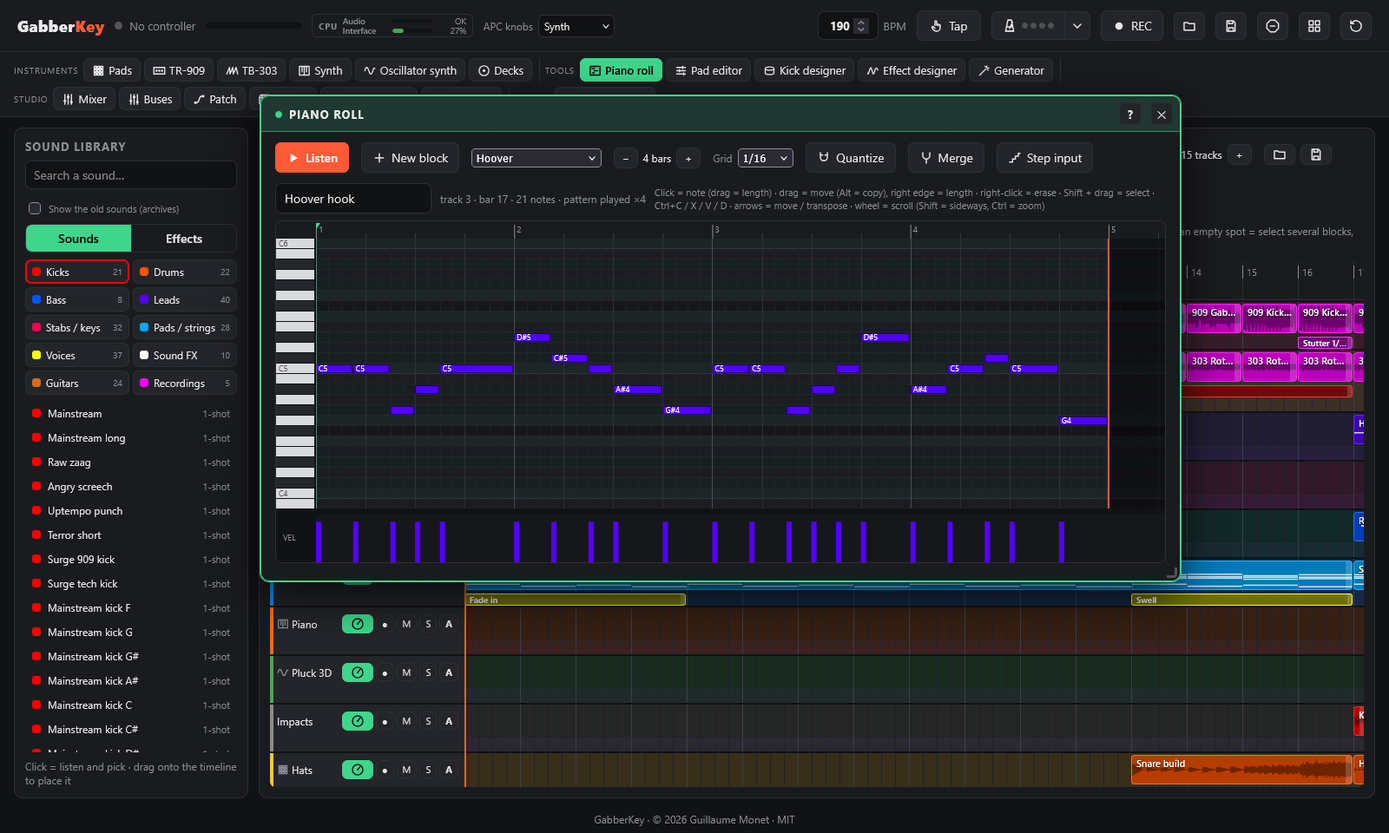
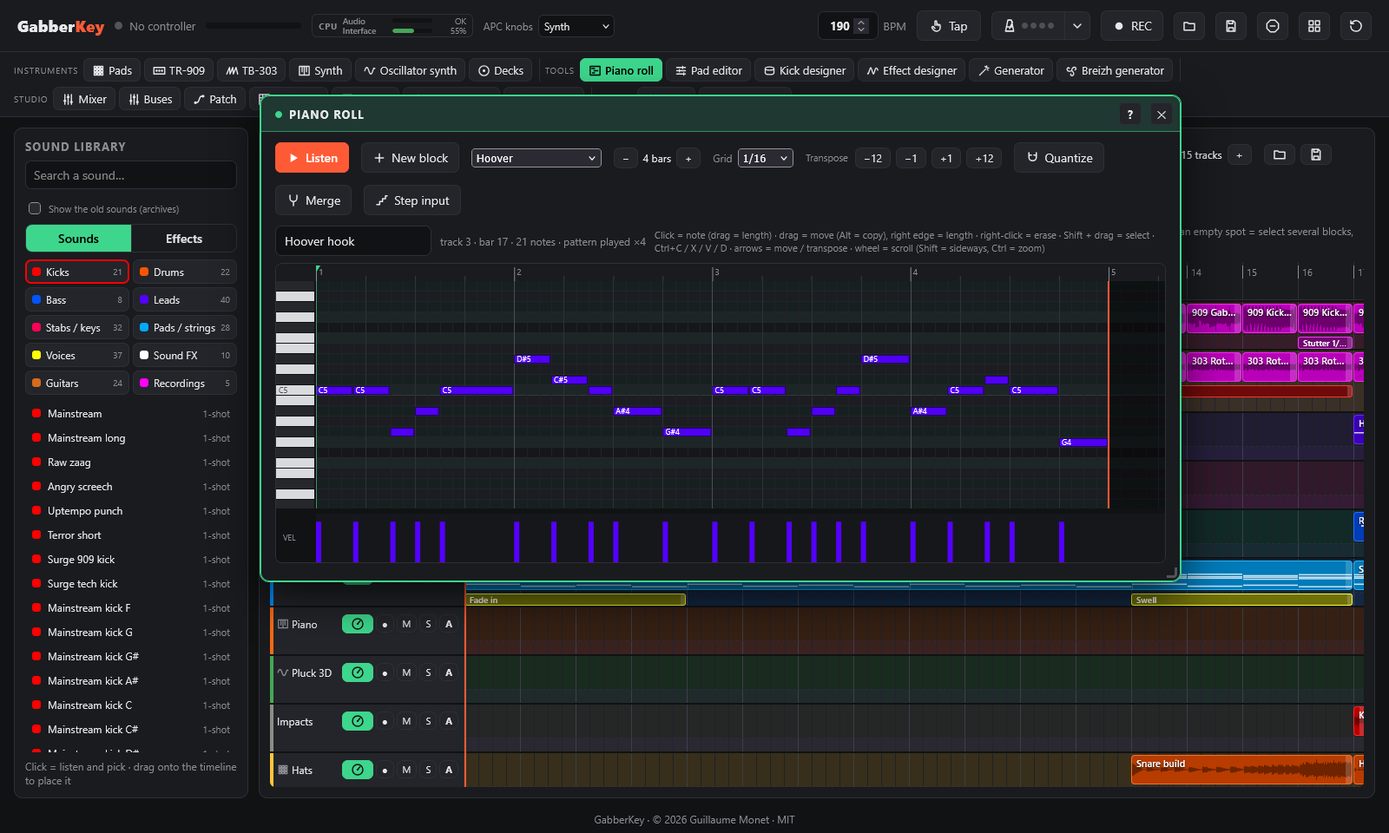
Piano roll: Transpose buttons (-12, -1, +1, +12) move the selected notes, or all the notes of the block when none is selected (was only reachable with the arrow keys). Kick melodies follow the kick designer: every setting changed in the designer is carried to the kick-melody blocks and their kicks a

diff --git a/index.html b/index.html
@@ -5,7 +5,7 @@
   <meta name="viewport" content="width=device-width, initial-scale=1">
   <meta name="author" content="Guillaume Monet">
   <title>GabberKey</title>
-  <link rel="stylesheet" href="css/style.css?v=102">
+  <link rel="stylesheet" href="css/style.css?v=103">
 </head>
 <body>
   <div id="start" class="overlay">
@@ -363,6 +363,7 @@
         <select id="roll-preset" data-i18n-title="roll.preset.title"></select>
         <span class="tl-bars" data-i18n-title="roll.len.title"><button id="roll-shorter">−</button><span id="roll-len"></span><button id="roll-longer">+</button></span>
         <label class="roll-field"><span data-i18n="roll.grid"></span><select id="roll-grid"></select></label>
+        <span class="tl-bars roll-transpose" data-i18n-title="roll.transpose.title"><span class="roll-tr-label" data-i18n="roll.transpose"></span><button data-tr="-12">−12</button><button data-tr="-1">−1</button><button data-tr="1">+1</button><button data-tr="12">+12</button></span>
         <button id="roll-quant" data-icon="magnet" data-i18n="roll.quant" data-i18n-title="roll.quant.title"></button>
         <button id="roll-merge" data-icon="merge" data-i18n="roll.merge" data-i18n-title="roll.merge.title"></button>
         <button id="roll-step" data-icon="steps" data-i18n="roll.step" data-i18n-title="roll.step.title"></button>
@@ -408,106 +409,106 @@
   <script type="importmap">
   {
     "imports": {
-      "./js/app/acid-ui.js": "./js/app/acid-ui.js?v=102",
-      "./js/app/actions.js": "./js/app/actions.js?v=102",
-      "./js/app/controller.js": "./js/app/controller.js?v=102",
-      "./js/app/core.js": "./js/app/core.js?v=102",
-      "./js/app/audio-input.js": "./js/app/audio-input.js?v=102",
-      "./js/app/automation-ui.js": "./js/app/automation-ui.js?v=102",
-      "./js/app/breizh-ui.js": "./js/app/breizh-ui.js?v=102",
-      "./js/app/buses-ui.js": "./js/app/buses-ui.js?v=102",
-      "./js/app/clip-menu.js": "./js/app/clip-menu.js?v=102",
-      "./js/app/curve-ui.js": "./js/app/curve-ui.js?v=102",
-      "./js/app/decks-ui.js": "./js/app/decks-ui.js?v=102",
-      "./js/app/demo.js": "./js/app/demo.js?v=102",
-      "./js/app/export.js": "./js/app/export.js?v=102",
-      "./js/app/files.js": "./js/app/files.js?v=102",
-      "./js/app/freeze.js": "./js/app/freeze.js?v=102",
-      "./js/app/gen.js": "./js/app/gen.js?v=102",
-      "./js/app/inserts-ui.js": "./js/app/inserts-ui.js?v=102",
-      "./js/app/kick-ui.js": "./js/app/kick-ui.js?v=102",
-      "./js/app/knobs.js": "./js/app/knobs.js?v=102",
-      "./js/app/launcher.js": "./js/app/launcher.js?v=102",
-      "./js/app/library-ui.js": "./js/app/library-ui.js?v=102",
-      "./js/app/metro-ui.js": "./js/app/metro-ui.js?v=102",
-      "./js/app/markers.js": "./js/app/markers.js?v=102",
-      "./js/app/master-ui.js": "./js/app/master-ui.js?v=102",
-      "./js/app/midi-files.js": "./js/app/midi-files.js?v=102",
-      "./js/app/midi-ui.js": "./js/app/midi-ui.js?v=102",
-      "./js/app/misc.js": "./js/app/misc.js?v=102",
-      "./js/app/mixer-ui.js": "./js/app/mixer-ui.js?v=102",
-      "./js/app/osc-ui.js": "./js/app/osc-ui.js?v=102",
-      "./js/app/pads.js": "./js/app/pads.js?v=102",
-      "./js/app/patch-ui.js": "./js/app/patch-ui.js?v=102",
-      "./js/app/perf-fx.js": "./js/app/perf-fx.js?v=102",
-      "./js/app/play.js": "./js/app/play.js?v=102",
-      "./js/app/piano.js": "./js/app/piano.js?v=102",
-      "./js/app/plugins.js": "./js/app/plugins.js?v=102",
-      "./js/app/presets-bar.js": "./js/app/presets-bar.js?v=102",
-      "./js/app/roll-ui.js": "./js/app/roll-ui.js?v=102",
-      "./js/app/save.js": "./js/app/save.js?v=102",
-      "./js/app/scenes.js": "./js/app/scenes.js?v=102",
-      "./js/app/sounds.js": "./js/app/sounds.js?v=102",
-      "./js/app/sidechain-ui.js": "./js/app/sidechain-ui.js?v=102",
-      "./js/app/synth-ui.js": "./js/app/synth-ui.js?v=102",
-      "./js/app/tempo.js": "./js/app/tempo.js?v=102",
-      "./js/app/tl-listen.js": "./js/app/tl-listen.js?v=102",
-      "./js/app/tl-record.js": "./js/app/tl-record.js?v=102",
-      "./js/app/tl-select.js": "./js/app/tl-select.js?v=102",
-      "./js/app/tl.js": "./js/app/tl.js?v=102",
-      "./js/app/tr909-ui.js": "./js/app/tr909-ui.js?v=102",
-      "./js/app/trackfx-ui.js": "./js/app/trackfx-ui.js?v=102",
-      "./js/app/undo.js": "./js/app/undo.js?v=102",
-      "./js/app/warp.js": "./js/app/warp.js?v=102",
-      "./js/app/viz-ui.js": "./js/app/viz-ui.js?v=102",
-      "./js/acid.js": "./js/acid.js?v=102",
-      "./js/apc.js": "./js/apc.js?v=102",
-      "./js/audio.js": "./js/audio.js?v=102",
-      "./js/decks.js": "./js/decks.js?v=102",
-      "./js/dynamics.js": "./js/dynamics.js?v=102",
-      "./js/chords.js": "./js/chords.js?v=102",
-      "./js/help.js": "./js/help.js?v=102",
-      "./js/history.js": "./js/history.js?v=102",
-      "./js/i18n.js": "./js/i18n.js?v=102",
-      "./js/kickdesign.js": "./js/kickdesign.js?v=102",
-      "./js/kicksynth.js": "./js/kicksynth.js?v=102",
-      "./js/kit.js": "./js/kit.js?v=102",
-      "./js/kits.js": "./js/kits.js?v=102",
-      "./js/metronome.js": "./js/metronome.js?v=102",
-      "./js/cpumeter.js": "./js/cpumeter.js?v=102",
-      "./js/curves.js": "./js/curves.js?v=102",
-      "./js/library.js": "./js/library.js?v=102",
-      "./js/lufs.js": "./js/lufs.js?v=102",
-      "./js/breizh.js": "./js/breizh.js?v=102",
-      "./js/melody.js": "./js/melody.js?v=102",
-      "./js/midi.js": "./js/midi.js?v=102",
-      "./js/midiclock.js": "./js/midiclock.js?v=102",
-      "./js/smf.js": "./js/smf.js?v=102",
-      "./js/main.js": "./js/main.js?v=102",
-      "./js/mixer.js": "./js/mixer.js?v=102",
-      "./js/notes.js": "./js/notes.js?v=102",
-      "./js/osc.js": "./js/osc.js?v=102",
-      "./js/params.js": "./js/params.js?v=102",
-      "./js/patch.js": "./js/patch.js?v=102",
-      "./js/performer.js": "./js/performer.js?v=102",
-      "./js/pianoroll.js": "./js/pianoroll.js?v=102",
-      "./js/presets.js": "./js/presets.js?v=102",
-      "./js/project.js": "./js/project.js?v=102",
-      "./js/sidechain.js": "./js/sidechain.js?v=102",
-      "./js/recorder.js": "./js/recorder.js?v=102",
-      "./js/timeline.js": "./js/timeline.js?v=102",
-      "./js/storage.js": "./js/storage.js?v=102",
-      "./js/stretch.js": "./js/stretch.js?v=102",
-      "./js/suggest.js": "./js/suggest.js?v=102",
-      "./js/tr909.js": "./js/tr909.js?v=102",
-      "./js/trackfx.js": "./js/trackfx.js?v=102",
-      "./js/visualizer.js": "./js/visualizer.js?v=102",
-      "./js/viz3d.js": "./js/viz3d.js?v=102",
-      "./js/windows.js": "./js/windows.js?v=102",
-      "./js/zip.js": "./js/zip.js?v=102"
+      "./js/app/acid-ui.js": "./js/app/acid-ui.js?v=103",
+      "./js/app/actions.js": "./js/app/actions.js?v=103",
+      "./js/app/controller.js": "./js/app/controller.js?v=103",
+      "./js/app/core.js": "./js/app/core.js?v=103",
+      "./js/app/audio-input.js": "./js/app/audio-input.js?v=103",
+      "./js/app/automation-ui.js": "./js/app/automation-ui.js?v=103",
+      "./js/app/breizh-ui.js": "./js/app/breizh-ui.js?v=103",
+      "./js/app/buses-ui.js": "./js/app/buses-ui.js?v=103",
+      "./js/app/clip-menu.js": "./js/app/clip-menu.js?v=103",
+      "./js/app/curve-ui.js": "./js/app/curve-ui.js?v=103",
+      "./js/app/decks-ui.js": "./js/app/decks-ui.js?v=103",
+      "./js/app/demo.js": "./js/app/demo.js?v=103",
+      "./js/app/export.js": "./js/app/export.js?v=103",
+      "./js/app/files.js": "./js/app/files.js?v=103",
+      "./js/app/freeze.js": "./js/app/freeze.js?v=103",
+      "./js/app/gen.js": "./js/app/gen.js?v=103",
+      "./js/app/inserts-ui.js": "./js/app/inserts-ui.js?v=103",
+      "./js/app/kick-ui.js": "./js/app/kick-ui.js?v=103",
+      "./js/app/knobs.js": "./js/app/knobs.js?v=103",
+      "./js/app/launcher.js": "./js/app/launcher.js?v=103",
+      "./js/app/library-ui.js": "./js/app/library-ui.js?v=103",
+      "./js/app/metro-ui.js": "./js/app/metro-ui.js?v=103",
+      "./js/app/markers.js": "./js/app/markers.js?v=103",
+      "./js/app/master-ui.js": "./js/app/master-ui.js?v=103",
+      "./js/app/midi-files.js": "./js/app/midi-files.js?v=103",
+      "./js/app/midi-ui.js": "./js/app/midi-ui.js?v=103",
+      "./js/app/misc.js": "./js/app/misc.js?v=103",
+      "./js/app/mixer-ui.js": "./js/app/mixer-ui.js?v=103",
+      "./js/app/osc-ui.js": "./js/app/osc-ui.js?v=103",
+      "./js/app/pads.js": "./js/app/pads.js?v=103",
+      "./js/app/patch-ui.js": "./js/app/patch-ui.js?v=103",
+      "./js/app/perf-fx.js": "./js/app/perf-fx.js?v=103",
+      "./js/app/play.js": "./js/app/play.js?v=103",
+      "./js/app/piano.js": "./js/app/piano.js?v=103",
+      "./js/app/plugins.js": "./js/app/plugins.js?v=103",
+      "./js/app/presets-bar.js": "./js/app/presets-bar.js?v=103",
+      "./js/app/roll-ui.js": "./js/app/roll-ui.js?v=103",
+      "./js/app/save.js": "./js/app/save.js?v=103",
+      "./js/app/scenes.js": "./js/app/scenes.js?v=103",
+      "./js/app/sounds.js": "./js/app/sounds.js?v=103",
+      "./js/app/sidechain-ui.js": "./js/app/sidechain-ui.js?v=103",
+      "./js/app/synth-ui.js": "./js/app/synth-ui.js?v=103",
+      "./js/app/tempo.js": "./js/app/tempo.js?v=103",
+      "./js/app/tl-listen.js": "./js/app/tl-listen.js?v=103",
+      "./js/app/tl-record.js": "./js/app/tl-record.js?v=103",
+      "./js/app/tl-select.js": "./js/app/tl-select.js?v=103",
+      "./js/app/tl.js": "./js/app/tl.js?v=103",
+      "./js/app/tr909-ui.js": "./js/app/tr909-ui.js?v=103",
+      "./js/app/trackfx-ui.js": "./js/app/trackfx-ui.js?v=103",
+      "./js/app/undo.js": "./js/app/undo.js?v=103",
+      "./js/app/warp.js": "./js/app/warp.js?v=103",
+      "./js/app/viz-ui.js": "./js/app/viz-ui.js?v=103",
+      "./js/acid.js": "./js/acid.js?v=103",
+      "./js/apc.js": "./js/apc.js?v=103",
+      "./js/audio.js": "./js/audio.js?v=103",
+      "./js/decks.js": "./js/decks.js?v=103",
+      "./js/dynamics.js": "./js/dynamics.js?v=103",
+      "./js/chords.js": "./js/chords.js?v=103",
+      "./js/help.js": "./js/help.js?v=103",
+      "./js/history.js": "./js/history.js?v=103",
+      "./js/i18n.js": "./js/i18n.js?v=103",
+      "./js/kickdesign.js": "./js/kickdesign.js?v=103",
+      "./js/kicksynth.js": "./js/kicksynth.js?v=103",
+      "./js/kit.js": "./js/kit.js?v=103",
+      "./js/kits.js": "./js/kits.js?v=103",
+      "./js/metronome.js": "./js/metronome.js?v=103",
+      "./js/cpumeter.js": "./js/cpumeter.js?v=103",
+      "./js/curves.js": "./js/curves.js?v=103",
+      "./js/library.js": "./js/library.js?v=103",
+      "./js/lufs.js": "./js/lufs.js?v=103",
+      "./js/breizh.js": "./js/breizh.js?v=103",
+      "./js/melody.js": "./js/melody.js?v=103",
+      "./js/midi.js": "./js/midi.js?v=103",
+      "./js/midiclock.js": "./js/midiclock.js?v=103",
+      "./js/smf.js": "./js/smf.js?v=103",
+      "./js/main.js": "./js/main.js?v=103",
+      "./js/mixer.js": "./js/mixer.js?v=103",
+      "./js/notes.js": "./js/notes.js?v=103",
+      "./js/osc.js": "./js/osc.js?v=103",
+      "./js/params.js": "./js/params.js?v=103",
+      "./js/patch.js": "./js/patch.js?v=103",
+      "./js/performer.js": "./js/performer.js?v=103",
+      "./js/pianoroll.js": "./js/pianoroll.js?v=103",
+      "./js/presets.js": "./js/presets.js?v=103",
+      "./js/project.js": "./js/project.js?v=103",
+      "./js/sidechain.js": "./js/sidechain.js?v=103",
+      "./js/recorder.js": "./js/recorder.js?v=103",
+      "./js/timeline.js": "./js/timeline.js?v=103",
+      "./js/storage.js": "./js/storage.js?v=103",
+      "./js/stretch.js": "./js/stretch.js?v=103",
+      "./js/suggest.js": "./js/suggest.js?v=103",
+      "./js/tr909.js": "./js/tr909.js?v=103",
+      "./js/trackfx.js": "./js/trackfx.js?v=103",
+      "./js/visualizer.js": "./js/visualizer.js?v=103",
+      "./js/viz3d.js": "./js/viz3d.js?v=103",
+      "./js/windows.js": "./js/windows.js?v=103",
+      "./js/zip.js": "./js/zip.js?v=103"
     }
   }
   </script>
-  <script type="module" src="js/main.js?v=102"></script>
+  <script type="module" src="js/main.js?v=103"></script>
 </body>
 </html>

diff --git a/js/help.js b/js/help.js
@@ -85,6 +85,7 @@ export const HELP = {
       <ul>
         <li><b>Open a block</b>: double-click a note block on the timeline (while this window is open, a click is enough), or <b>+ New block</b> (1 bar at the playhead, on the armed track). A synth recording becomes a single note block.</li>
         <li><b>Notes</b>: click an empty spot to add a note (drag to set its length), drag a note to move it (<b>Alt</b> = copy), drag its right edge to change its length, <b>right-click</b> (or right-drag) to erase. <b>Shift + drag</b> selects a group, Shift + click adds a note to the selection.</li>
+        <li><b>Transpose</b> (−12, −1, +1, +12): the selected notes, or all the notes of the block if none is selected.</li>
         <li><b>Keys</b>: Delete, Ctrl+A / C / X / V (paste at the green cursor, set by clicking the ruler), Ctrl+D (duplicate after itself), ↑ / ↓ transpose (Shift = octave), ← / → move by one grid step (Shift = one bar), Q quantize, Space = listen, Ctrl+Z = undo.</li>
         <li><b>Velocity</b>: drag in the bottom lane (only the selected notes if there is a selection).</li>
         <li><b>Grid</b> from 1/4 to 1/32 (and triplets); <b>Quantize</b> snaps the start and end of the notes. Rows of the F minor scale (the key of the banks) are tinted.</li>
@@ -327,6 +328,7 @@ export const HELP = {
       <ul>
         <li><b>Ouvrir un bloc</b> : double-clic sur un bloc de notes de la timeline (quand cette fenêtre est ouverte, un clic suffit), ou <b>+ Nouveau bloc</b> (1 mesure à la tête de lecture, sur la piste armée). Un enregistrement du synthé devient un seul bloc de notes.</li>
         <li><b>Notes</b> : clic dans le vide pour poser une note (glisser pour sa durée), glisser une note pour la déplacer (<b>Alt</b> = copie), glisser son bord droit pour sa durée, <b>clic droit</b> (ou glisser en clic droit) pour effacer. <b>Maj + glisser</b> sélectionne un groupe, Maj + clic ajoute une note à la sélection.</li>
+        <li><b>Transposer</b> (−12, −1, +1, +12) : les notes sélectionnées, ou toutes les notes du bloc si rien n'est sélectionné.</li>
         <li><b>Touches</b> : Suppr, Ctrl+A / C / X / V (collage au curseur vert, placé d'un clic sur la règle), Ctrl+D (duplique à la suite), ↑ / ↓ transposent (Maj = octave), ← / → déplacent d'une case (Maj = une mesure), Q quantifie, Espace = écouter, Ctrl+Z = annuler.</li>
         <li><b>Vélocité</b> : glisser dans la bande du bas (seulement les notes sélectionnées s'il y a une sélection).</li>
         <li><b>Grille</b> de 1/4 à 1/32 (et triolets) ; <b>Quantifier</b> cale le début et la fin des notes. Les lignes de la gamme de fa mineur (la tonalité des banques) sont teintées.</li>

diff --git a/js/app/roll-ui.js b/js/app/roll-ui.js
@@ -66,7 +66,13 @@ export function openRoll(clip, show) {
 export function buildRoll() {
   pianoRoll = new PianoRoll($('#roll-canvas'), {
     clip: () => rollFind()?.clip ?? null,
-    changed: () => { const f = rollFind(); if (f) growSong(f.clip); renderTl(); save(); },
+    changed: () => {
+      const f = rollFind();
+      if (f) growSong(f.clip);
+      if (f?.clip.kick) prepareKickClips(state.tl.tracks, engine.ctx.sampleRate);   // mélodie de kick : les kicks des nouvelles notes
+      renderTl();
+      save();
+    },
     noteOn: (n, v) => { const s = rollSound(); rollHeld.set(n, s.syn); s.syn.noteOn(n, v, undefined, `roll:${n}`, s.V); },
     noteOff: n => { (rollHeld.get(n) ?? engine).noteOff(n, false, undefined, `roll:${n}`); rollHeld.delete(n); },
     playhead: rollPlayhead,
@@ -78,6 +84,8 @@ export function buildRoll() {
   $('#roll-new').addEventListener('click', rollNew);
   $('#roll-merge').addEventListener('click', rollMerge);
   $('#roll-quant').addEventListener('click', () => pianoRoll.quantize());
+  // Transposer : les notes sélectionnées, ou toutes les notes du bloc (comme les flèches ↑ ↓, Maj = octave).
+  for (const b of document.querySelectorAll('.roll-transpose button')) b.addEventListener('click', () => pianoRoll.transpose(+b.dataset.tr));
   $('#roll-step').addEventListener('click', () => { state.roll.step = !state.roll.step; renderRollBar(); save(); });
   $('#roll-shorter').addEventListener('click', () => rollLength(-1));
   $('#roll-longer').addEventListener('click', () => rollLength(1));
@@ -123,6 +131,7 @@ export function renderRollBar() {
   const clip = f?.clip;
   $('#roll-empty').hidden = !!clip;
   for (const id of ['#roll-play', '#roll-preset', '#roll-shorter', '#roll-longer', '#roll-quant', '#roll-merge', '#roll-name']) $(id).disabled = !clip;
+  for (const b of document.querySelectorAll('.roll-transpose button')) b.disabled = !clip;
   $('#roll-play').textContent = rollPlay ? t('tr.stop') : t('roll.listen');
   $('#roll-play').dataset.icon = rollPlay ? 'stop' : 'play';
   $('#roll-play').classList.toggle('active', !!rollPlay);

diff --git a/js/i18n.js b/js/i18n.js
@@ -808,6 +808,7 @@ export const STRINGS = {
     'roll.len.title': 'Length of the pattern (the block repeats it over its whole length on the timeline)',
     'roll.grid': 'Grid',
     'roll.quant': 'Quantize',
+    'roll.transpose': 'Transpose', 'roll.transpose.title': 'Moves the selected notes, or all the notes of the block if none is selected, by a semitone or an octave (also ↑ ↓, Shift = octave)',
     'roll.quant.title': 'Snap the selected notes (or all of them) to the grid (Q)',
     'roll.merge': 'Merge',
     'roll.merge.title': 'Merge the neighbouring note blocks of the same track (same sound) into this block',
@@ -1853,6 +1854,7 @@ export const STRINGS = {
     'roll.len.title': "Longueur du motif (le bloc le répète sur toute sa longueur dans la timeline)",
     'roll.grid': 'Grille',
     'roll.quant': 'Quantifier',
+    'roll.transpose': 'Transposer', 'roll.transpose.title': 'Décale les notes sélectionnées, ou toutes les notes du bloc si rien n\'est sélectionné, d\'un demi-ton ou d\'une octave (aussi ↑ ↓, Maj = octave)',
     'roll.quant.title': "Cale les notes sélectionnées (ou toutes) sur la grille (Q)",
     'roll.merge': 'Regrouper',
     'roll.merge.title': "Regroupe dans ce bloc les blocs de notes voisins de la même piste (même son)",

diff --git a/tests/specs/instruments-kick-layers.test.js b/tests/specs/instruments-kick-layers.test.js
@@ -111,6 +111,18 @@ export default async function (t, A) {
   const bd = 60 / S.bpm;
   t.ok(rms(ch[0], 0, 4 * bd, sr) > 0.02, 'export : la mélodie de kick est rendue', rms(ch[0], 0, 4 * bd, sr));
 
+  // Le bloc suit le designer : un réglage changé lui est reporté.
+  S.kick.params.drive = 0.9;
+  A.kickChanged(false);
+  t.ok(await t.until(() => clip.kick.drive === 0.9, 2000), 'la mélodie de kick suit le designer');
+  // Transposer (piano roll) : toutes les notes du bloc, sans sélection.
+  const before = clip.seq.map(n => n.note);
+  t.$('.roll-transpose [data-tr="12"]').click();
+  t.eq(clip.seq.map(n => n.note), before.map(n => n + 12), 'Transposer +12 : toutes les notes montent d’une octave');
+  t.$('.roll-transpose [data-tr="-1"]').click();
+  t.eq(clip.seq[0].note, before[0] + 11, 'Transposer −1 : un demi-ton plus bas');
+  t.$('.roll-transpose [data-tr="-12"]').click();
+  t.$('.roll-transpose [data-tr="1"]').click();
   // Piano roll : un autre son, puis de nouveau le kick.
   const sel = t.$('#roll-preset');
   sel.value = 'epic_strings'; sel.dispatchEvent(new Event('change'));

diff --git a/js/app/kick-ui.js b/js/app/kick-ui.js
@@ -142,11 +142,23 @@ export async function kickRender() {
   return buf;
 }
 
+// Les blocs de mélodie de kick suivent le kick du designer : chaque réglage changé leur est reporté (sauf un bloc figé,
+// kickFrozen), et leurs kicks sont recalculés à l'avance.
+export function followKick() {
+  const linked = state.tl.tracks.flatMap(tr => tr.clips).filter(c => c.type === 'note' && c.kick && !c.kickFrozen);
+  if (!linked.length) return;
+  const p = JSON.stringify(state.kick.params);
+  let changed = false;
+  for (const c of linked) if (JSON.stringify(c.kick) !== p) { c.kick = { ...state.kick.params }; changed = true; }
+  if (changed) prepareKickClips(state.tl.tracks, engine.ctx.sampleRate);
+}
+
 export let kickTimer;
 export function kickChanged(play) {
   clearTimeout(kickTimer);
   kickTimer = setTimeout(async () => {
     await kickRender();
+    followKick();
     if (play && state.kick.auto) playKick(false);
   }, 40);
   renderKick();

diff --git a/css/style.css b/css/style.css
@@ -719,6 +719,8 @@ header button, header .status { white-space: nowrap; }
 .roll-info .roll-hint { flex: 1; min-width: 0; font-size: 11px; }
 .roll-view { position: relative; flex: 1; min-height: 260px; border: 1px solid var(--line); border-radius: 8px; overflow: hidden; }
 #roll-canvas { position: absolute; inset: 0; width: 100%; height: 100%; touch-action: none; }
+.roll-transpose { align-items: center; }
+.roll-tr-label { color: var(--muted); font-size: 11px; margin-right: 2px; }
 .roll-empty { position: absolute; inset: 0; display: flex; align-items: center; justify-content: center; padding: 20px; text-align: center; color: var(--muted); pointer-events: none; }
 .roll-empty[hidden] { display: none; }
 #roll-step.active, #roll-play.active { background: var(--accent-2); color: #111; }

diff --git a/docs/manuel/instruments.md b/docs/manuel/instruments.md
@@ -135,7 +135,7 @@ La note de la queue s'affiche au-dessus des potentiomètres (par exemple « Queu
 - **Accorder sur la tonalité** accorde la queue sur la tonalité du morceau : la fondamentale du premier accord du **Générateur**, au plus près de la note actuelle.
 - **Mélodie de kick** pose sur la timeline un bloc de notes joué par ce kick, un kick par temps, et l'ouvre dans le **piano roll**. Chaque note accorde la queue : changez les notes pour faire chanter le kick, comme en frenchcore ou en uptempo. S'il y a une suite d'accords dans le Générateur, la mélodie suit la fondamentale de chaque accord ; sinon elle reste sur la note de la queue.
   - Chaque kick coupe le précédent, et une note courte donne une queue courte.
-  - Le bloc garde le kick tel qu'il était quand vous l'avez posé. Pour lui donner le kick actuel du designer, choisissez **Kick du designer** dans la liste des sons du piano roll ; ce choix transforme aussi n'importe quel bloc de notes en mélodie de kick.
+  - Le bloc suit le designer : chaque réglage que vous changez dans le designer s'entend aussitôt dans la mélodie. Dans la liste des sons du piano roll, **Kick du designer** transforme aussi n'importe quel bloc de notes en mélodie de kick.
   - Les kicks de la mélodie déclenchent le sidechain.
 
 ---

diff --git a/docs/manuel/timeline.md b/docs/manuel/timeline.md
@@ -97,6 +97,7 @@ Le navigateur dispose de peu de puissance de calcul : une piste lourde (accords 
 
 - **Ouvrir un bloc** : double-clic sur un bloc de notes de la timeline (quand la fenêtre est ouverte, un clic suffit), ou **+ Nouveau bloc** (1 mesure à la tête de lecture, sur la piste armée). Un **enregistrement du synthé devient un seul bloc de notes**, prêt à être retouché.
 - **Dessiner** : clic dans le vide pour poser une note (glisser pour sa durée), glisser une note pour la déplacer (**Alt** = copie), tirer son bord droit pour sa durée, **clic droit** pour effacer. **Maj + glisser** sélectionne un groupe.
+- **Transposer** (−12, −1, +1, +12) : décale les notes sélectionnées, ou toutes les notes du bloc si rien n'est sélectionné, d'un demi-ton ou d'une octave.
 - **Touches** : Suppr, Ctrl+A / C / X / V (collage au curseur vert, placé d'un clic sur la règle), **Ctrl+D** duplique à la suite, ↑ / ↓ transposent (Maj = octave), ← / → déplacent d'une case (Maj = une mesure), **Q** quantifie, **Espace** écoute, Ctrl+Z annule.
 - **Vélocité** : glisser dans la bande du bas.
 - **Grille** de 1/4 à 1/32, avec les triolets ; **Quantifier** cale le début et la fin des notes. Les lignes de la gamme de fa mineur (la tonalité des banques) sont teintées.

diff --git a/docs/manual/instruments.md b/docs/manual/instruments.md
@@ -135,7 +135,7 @@ The tail note is shown above the knobs (for example "Tail: F2 (87 Hz)").
 - **Tune to the key** tunes the tail to the key of the song: the root of the first chord of the **Generator**, the closest to the current note.
 - **Kick melody** lays on the timeline a note block played by this kick, one kick per beat, and opens it in the **piano roll**. Each note retunes the tail: change the notes to make the kick sing, as in frenchcore or uptempo. If there is a chord progression in the Generator, the melody follows the root of each chord; otherwise it stays on the tail note.
   - Each kick cuts the previous one, and a short note gives a short tail.
-  - The block keeps the kick as it was when you laid it. To give it the current kick of the designer, choose **Kick of the designer** in the sound list of the piano roll; this choice also turns any note block into a kick melody.
+  - The block follows the designer: each setting you change in the designer is heard at once in the melody. In the sound list of the piano roll, **Kick of the designer** also turns any note block into a kick melody.
   - The kicks of the melody trigger the sidechain.
 
 ---

diff --git a/docs/manual/timeline.md b/docs/manual/timeline.md
@@ -97,6 +97,7 @@ Edits the notes of a **note block** of the timeline (synth recordings, generated
 
 - **Open a block**: double-click a note block on the timeline (while the window is open, a click is enough), or **+ New block** (1 bar at the playhead, on the armed track). A **synth recording becomes a single note block**, ready to edit.
 - **Draw**: click an empty spot to add a note (drag to set its length), drag a note to move it (**Alt** = copy), drag its right edge for its length, **right-click** to erase. **Shift + drag** selects a group.
+- **Transpose** (−12, −1, +1, +12): moves the selected notes, or all the notes of the block if none is selected, by a semitone or an octave.
 - **Keys**: Delete, Ctrl+A / C / X / V (paste at the green cursor, set by clicking the ruler), **Ctrl+D** duplicates after itself, ↑ / ↓ transpose (Shift = octave), ← / → move by one grid step (Shift = one bar), **Q** quantizes, **Space** listens, Ctrl+Z undoes.
 - **Velocity**: drag in the bottom lane.
 - **Grid** from 1/4 to 1/32, with triplets; **Quantize** snaps the start and end of the notes. The rows of the F minor scale (the key of the banks) are tinted.
